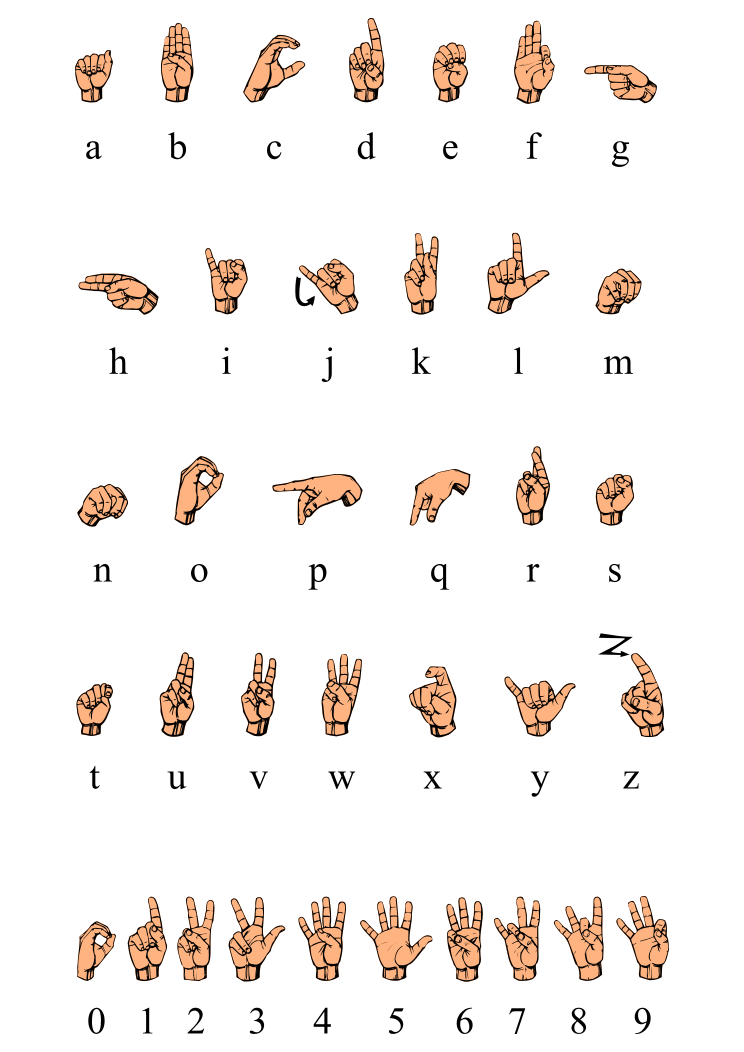
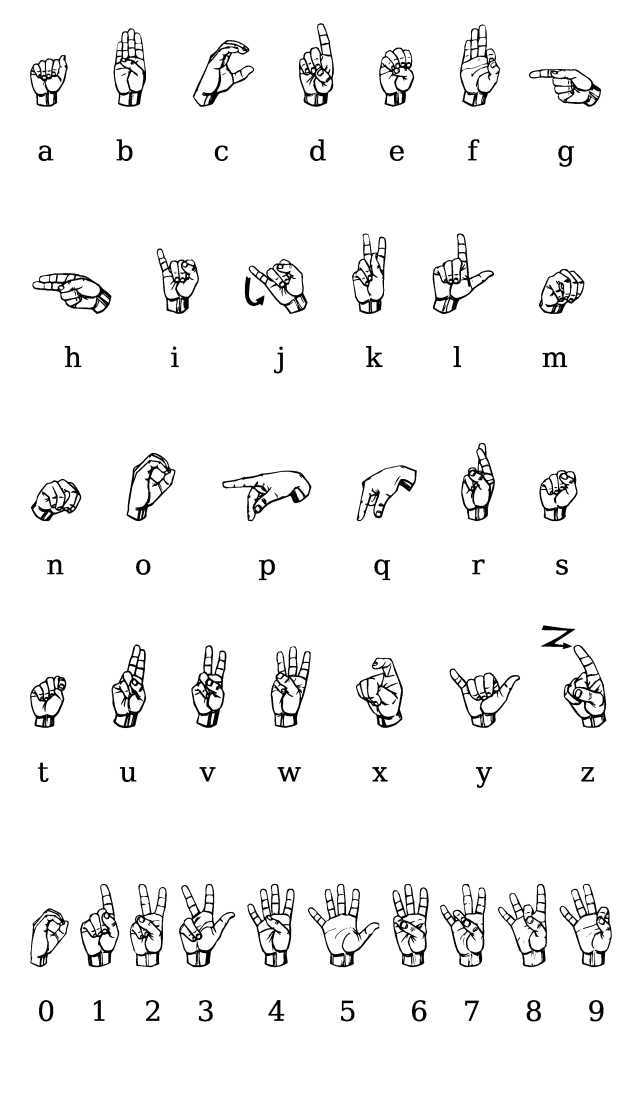
FIX: Address Meenakshee comments

diff --git a/THIRD_PARTY_NOTICES.md b/THIRD_PARTY_NOTICES.md
@@ -39,17 +39,22 @@ Nabonita Ghosh, Md. Rahatun Alam, Sudipto Chaki, and Md Masudul Islam.
 
 File: `course_content/tutorials/images/asl.png`
 
-- Source: https://commons.wikimedia.org/wiki/File:Asl_alphabet_gallaudet.svg
-- Status: Public domain
-- Modification: Converted from SVG to PNG.
+- Creator: Ds13 (Darren Stone)
+- Source: https://commons.wikimedia.org/wiki/File:Asl_alphabet_gallaudet.png
+- Status: Released into the public domain by the creator
+- Modifications: Original file renamed to `asl.png`; image content was not modified
+
 
 ## Jack Russell Terrier photograph
 
 File: `course_content/tutorials/data/doggy_door_images/happy_dog.jpg`
 
+- Photographer: Plank
+- Photographer profile: https://commons.wikimedia.org/wiki/User:Plank
 - Source: https://commons.wikimedia.org/wiki/File:Jack_Russell_Terrier_1.jpg
 - License: Creative Commons Attribution 3.0 Unported
-- Modification: Resized for course use.
+- License URL: https://creativecommons.org/licenses/by/3.0/
+- Modification: Resized for course use
 
 ## MNIST figure
 
@@ -64,14 +69,13 @@ from the MNIST Database of Handwritten Digits.
 - Modification: NVIDIA selected and arranged samples into one educational figure.
 
 CC BY 4.0 covers NVIDIA's selection, arrangement, and presentation.
-The underlying MNIST dataset was approved through NVIDIA's dataset
-review process.
 
-## Penny the Corgi dataset
+## Penny  and brow_bear within the Corgi dataset
 
 Files:
 
 - `course_content/tutorials/images/Penny.jpg`
+- `course_content/tutorials/images/brown_bear.jpg`
 
 - Creator/licensor: Danielle Detering 
 - Source: https://www.kaggle.com/datasets/danielledetering/penny-the-corgi
